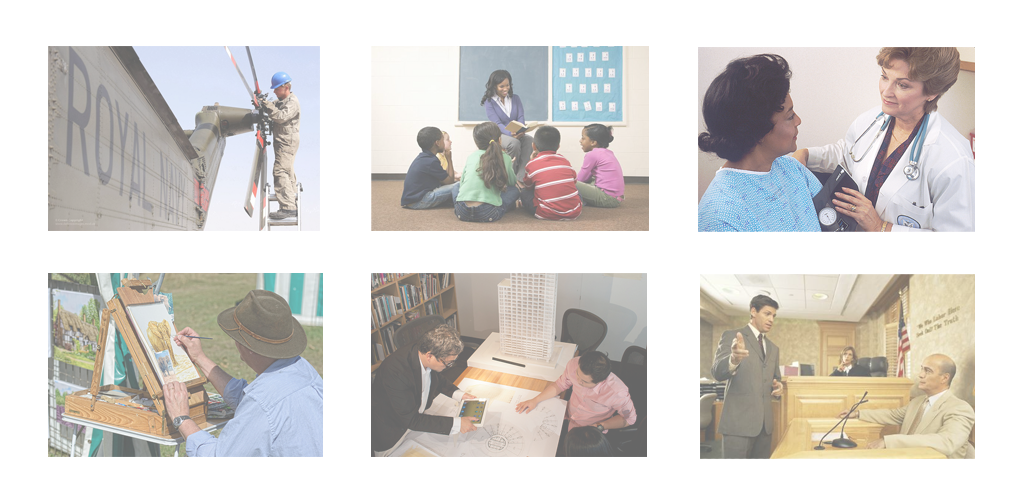
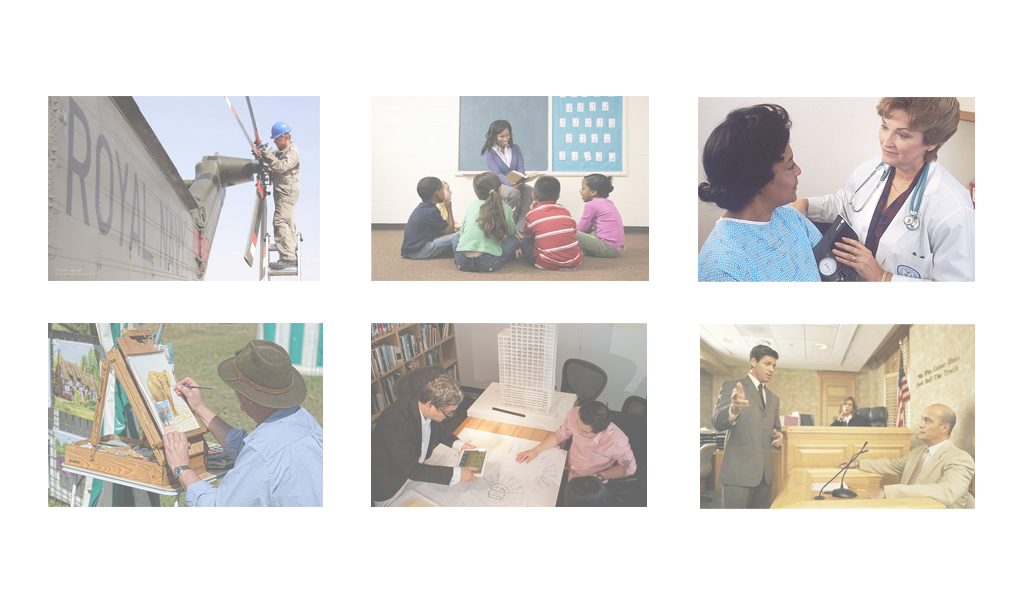
fixed search button position and added basic style

diff --git a/app/assets/stylesheets/application.css.scss b/app/assets/stylesheets/application.css.scss
@@ -20,7 +20,7 @@
 $basic-font-family: 'Lato','Helvetica Neue', Helvetica, Arial, sans-serif;
 $theme-color: green;
 $program-metrics-line-height: 2.3;
-$home-section-height: 500px;
+$home-section-height: 550px;
 
 /* Sass mixins */
 
@@ -85,32 +85,22 @@ h1 {
 
 /*Homepage Styles*/
 
-/*.heading_box {
-	background-color: #111;
-	opacity: 0.8;
-	height: 50px;
-}*/
 .main_background {
-	background-color: #fff;
+	background-color: #fffffa;
 }
 .search_background {
-/*	background-color: #E8E8E8;*/
 	height: $home-section-height;
 	background-image: url("../../assets/home-professions.png");
-/*	background-image: url("../../assets/engineer.jpg");*/
+	background-repeat: no-repeat;
+	background-position: 0 -20px;
 	background-size: 100%;
 }
 .info {
 	background-color: gray;
 	height: $home-section-height;
 }
-
-.carousel-inner img {
-	height: 100%;
-}
-
-#myCarousel {
-	display: inline-block;
+#search_field_position {
+	margin-bottom: 0;
 }
 
 /* Header styles */
@@ -138,7 +128,7 @@ h1 {
 /* Main content styles */
 
 .home_heading{
-	margin-top: 14%;
+	margin-top: 18%;
 	text-align: center;
 	margin-left: auto;
 	margin-right: auto;
